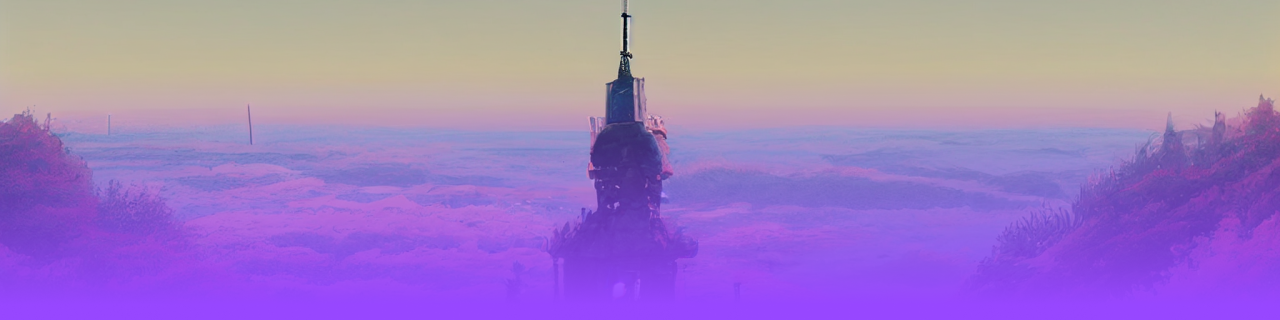
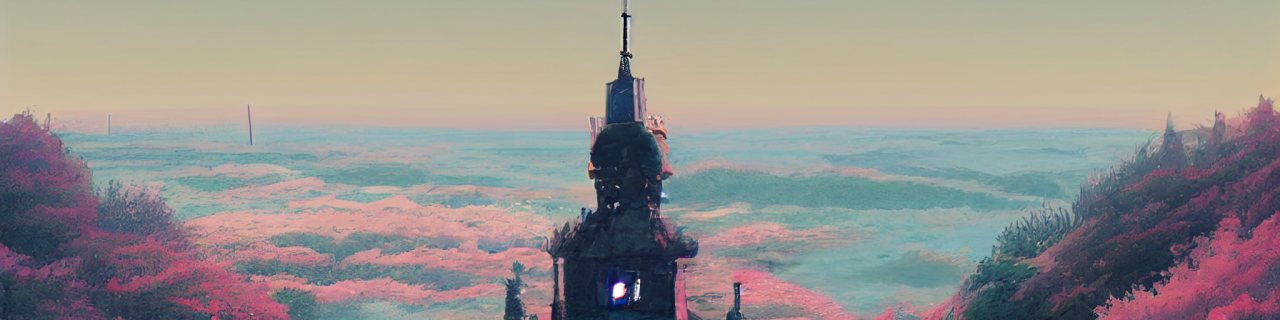
placeholder linear-gradient

diff --git a/client/src/components/ImageBackground/ImageBackground.jsx b/client/src/components/ImageBackground/ImageBackground.jsx
@@ -4,7 +4,10 @@ import styles from './ImageBackground.module.scss'
 const ImageBackground = ({ img, height }) => {
   return (
     <div
-      style={{ backgroundImage: `url(${img})`, height }}
+      style={{
+        backgroundImage: `linear-gradient(180deg, rgba(151, 71, 255, 0) 21.88%, #9747ff 95.31%), url(${img})`,
+        height,
+      }}
       className={styles.placeholder}
     ></div>
   )
